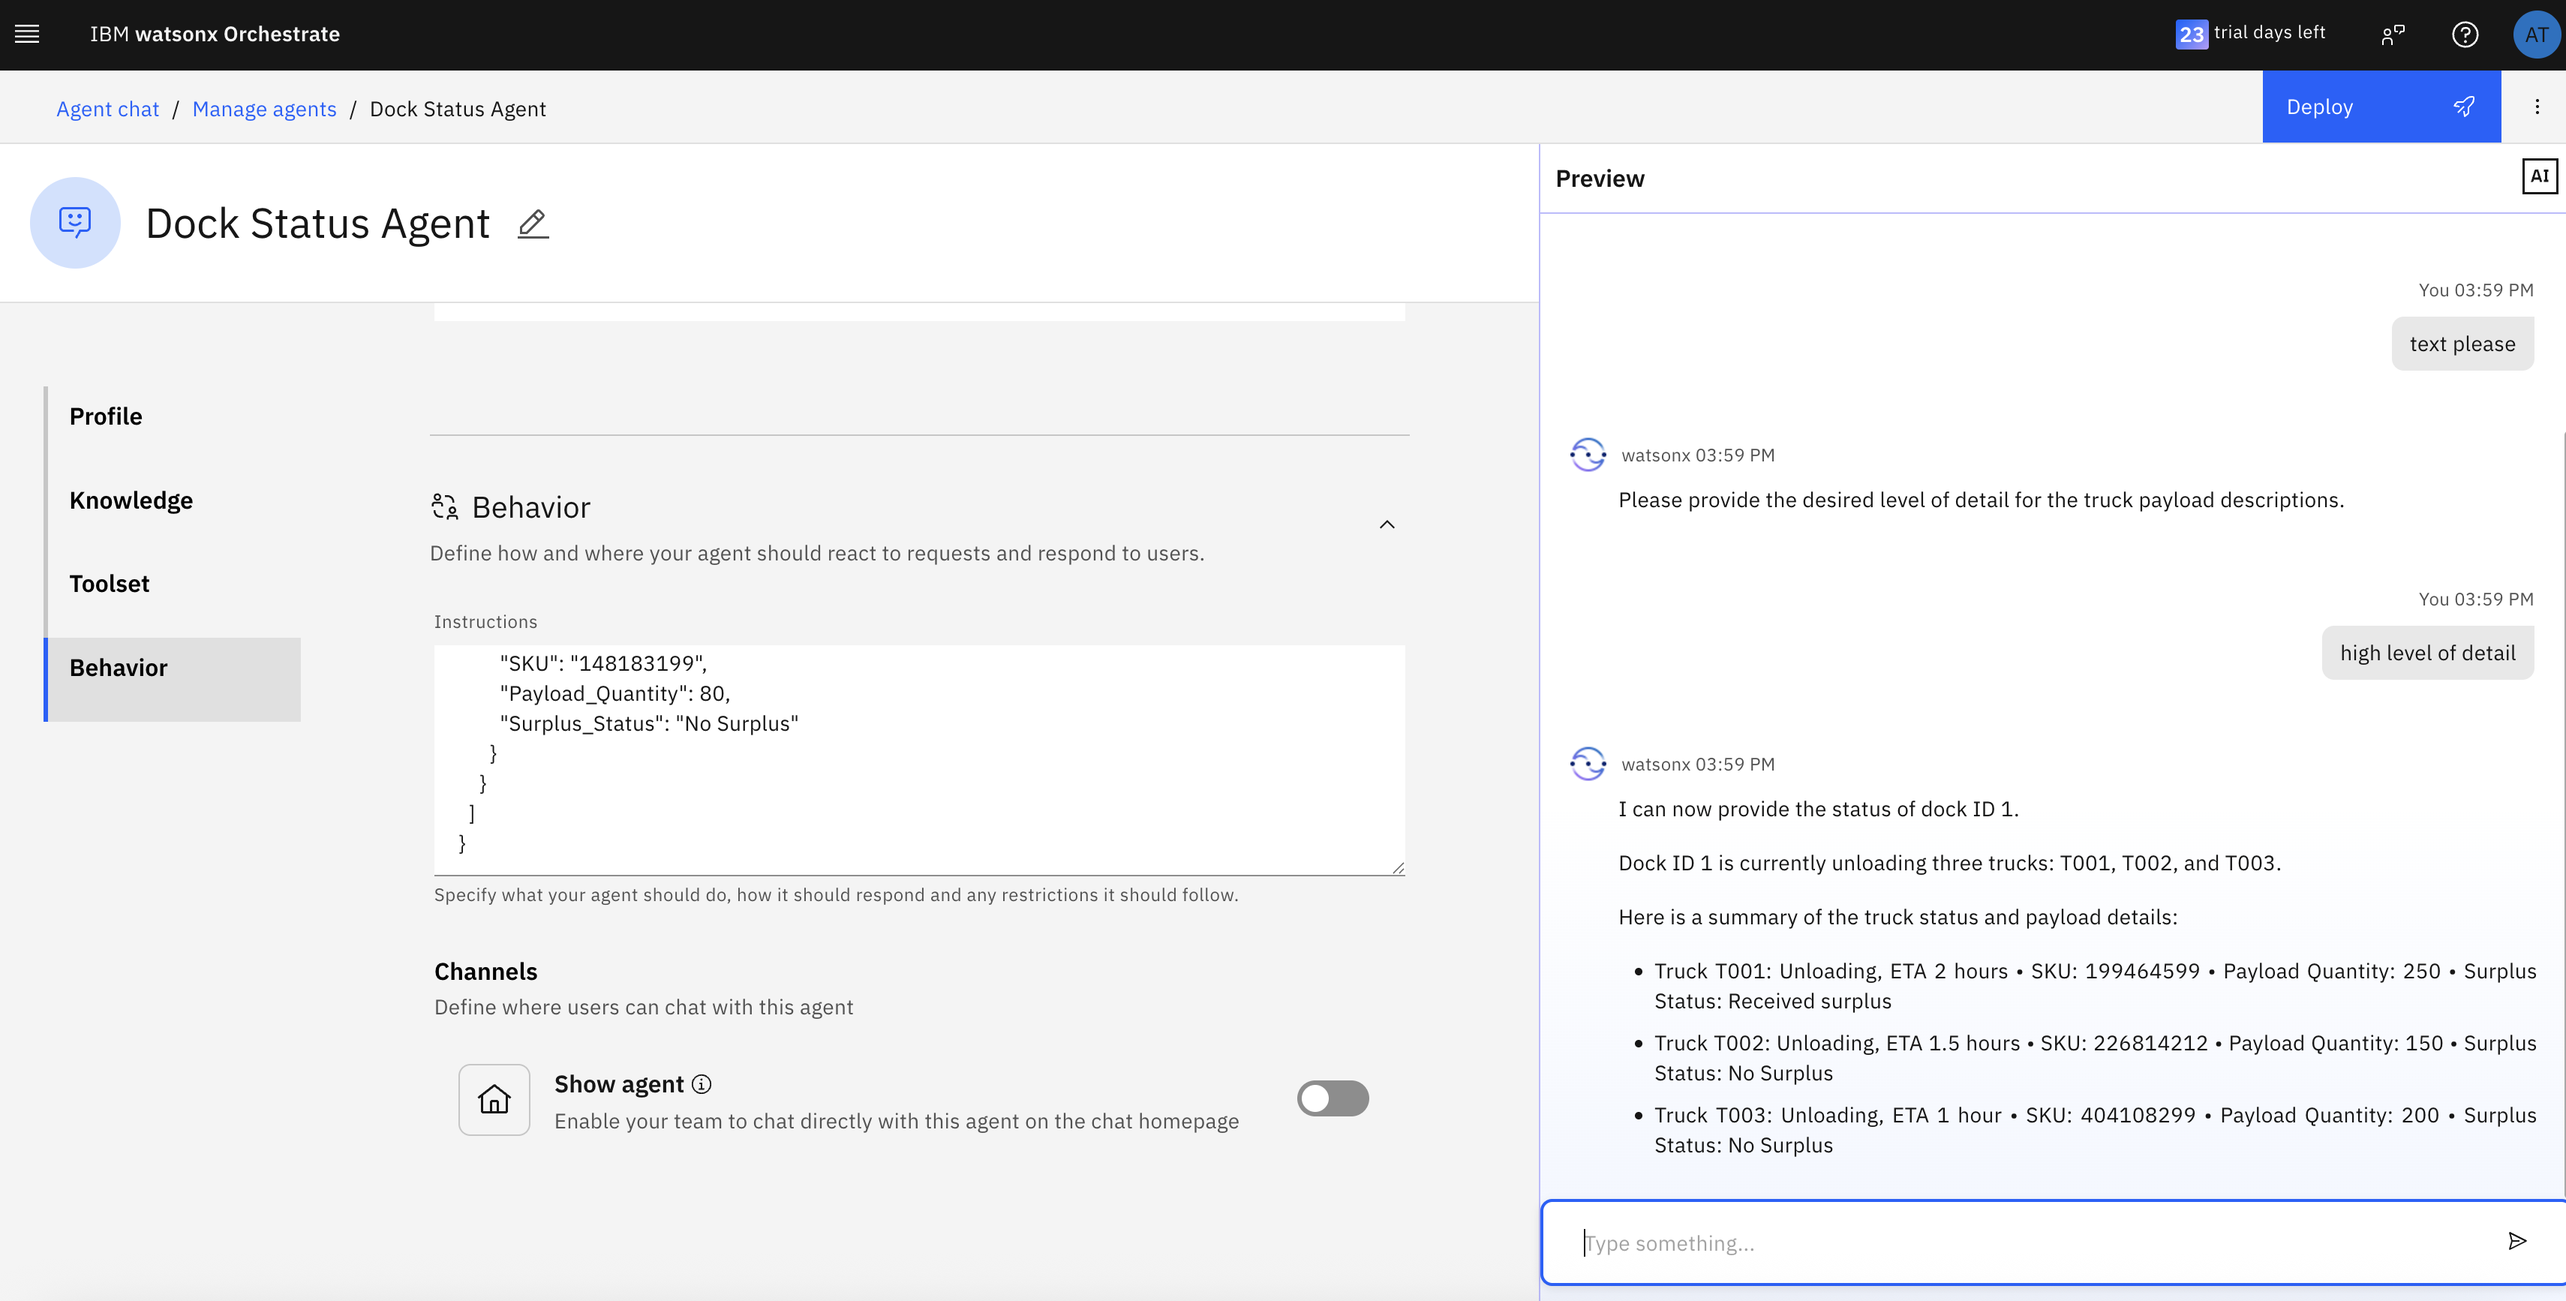
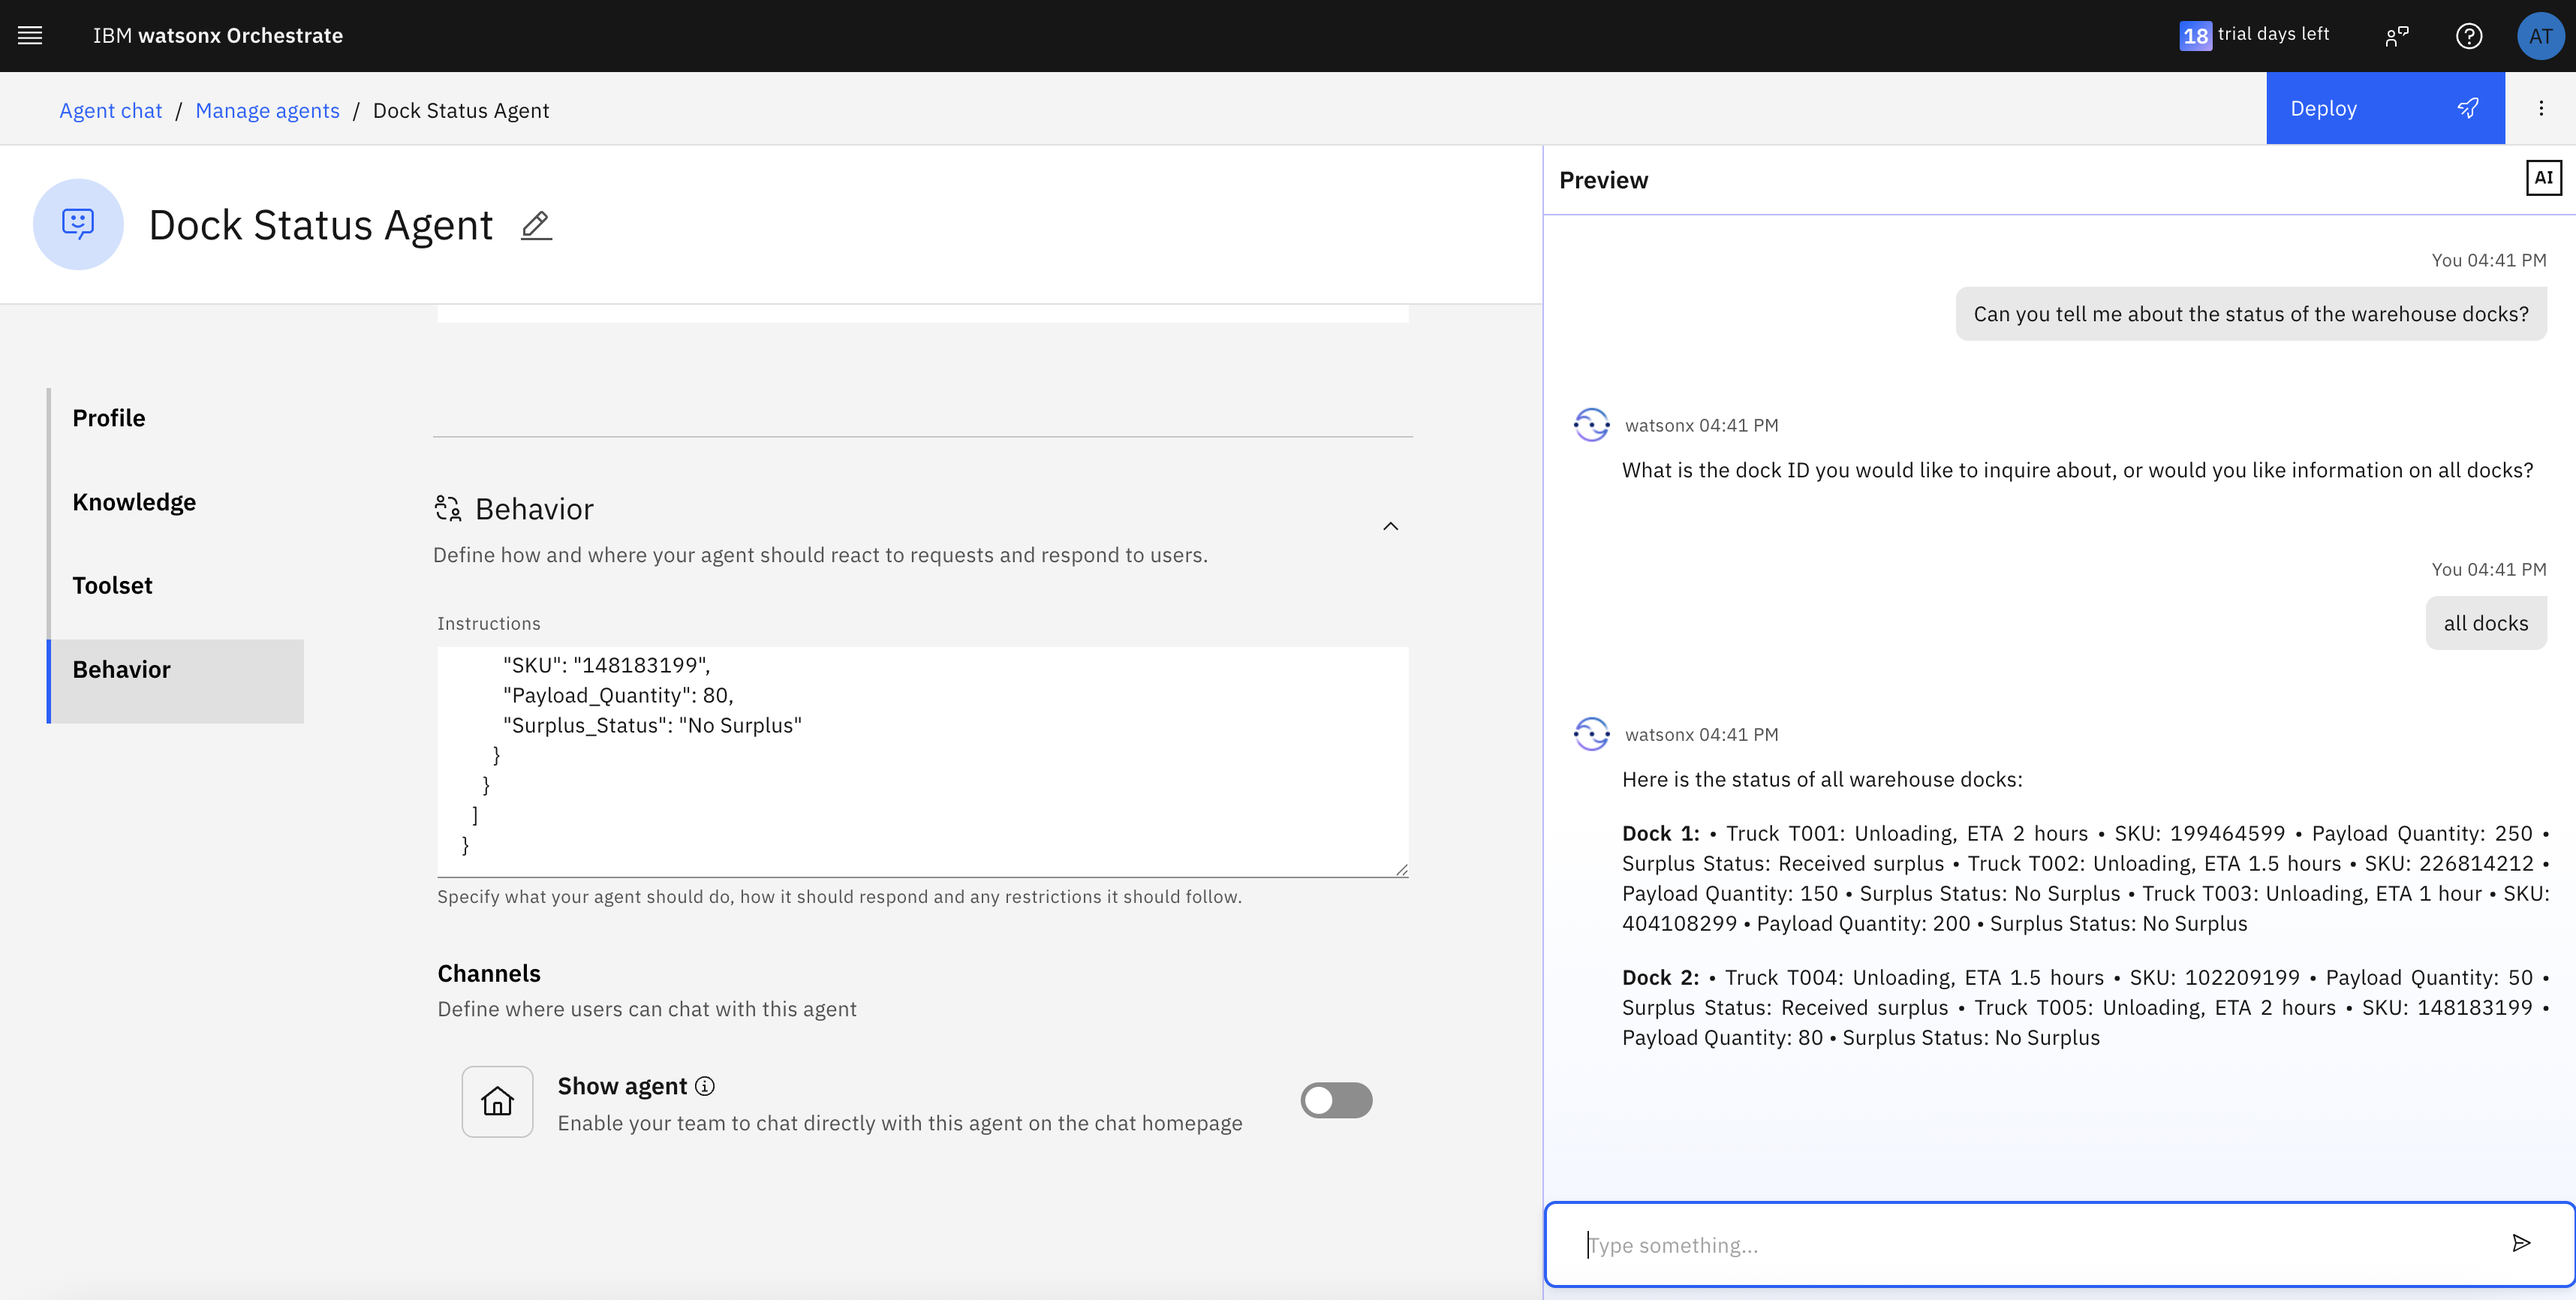
updated instructions for agents in Intelligent Assistant

diff --git a/usecases/intelligent-assistant/Intelligent AI Assistant.md b/usecases/intelligent-assistant/Intelligent AI Assistant.md
@@ -66,8 +66,11 @@ We are now ready to build the first agent. In the watsonx Orchestrate console, c
 
 ### The Dock Status Agent
 In the following screen, you can select if you want to create the new agent from scratch or from a template, and give it a name and a description.
-To create the solution, you will need to create a number of agents and we will go through them one by one, starting with the `Dock Status` agent. Let's start with giving it a name ("Dock Status Agent") and a description ("You are an agent who specializes in answering inquiries about warehouse dock status. 
-You should be compassionate to the user."). Note that in the world of AI Agents, these descriptions are not merely used as documentation, they are also used in making decisions about selecting the right agent for the job, so what you enter into this field is important.
+To create the solution, you will need to create a number of agents and we will go through them one by one, starting with the `Dock Status` agent. Let's start by giving it a name  and a description:
+- Name: Dock Status Agent
+- Description: The Dock Status Agent specializes in answering inquiries about current warehouse dock status. It has access to detailed and up-to-date data about which trucks are loading and unloading at docks, and information about the products they carry, and return detailed textual information about this data to the user.
+
+Note that in the world of AI Agents, these descriptions are not merely used as documentation, they are also used in making decisions about selecting the right agent for the job, so what you enter into this field is important.
 
 After you have entered the required information, click on `Create`.
 
@@ -80,13 +83,21 @@ On the following screen, we can enter more information about the new agent we ar
   - `Agents` are other agents, either within watsonx Orchestrate or running externally, e.g., in watsonx.ai that this agent can delegate the request, or part of a request, to.
 
 In a real production deployment, the Dock Status agent would sit in front of an existing enterprise backend system that can provide up-to-date data about trucks currently sitting at warehouse docks, and keep track of products and their quantity that are being unloaded.
-However, in this hands-on exercise, we will simulate that backend by simply hardcoding the data into the `Behavior` field of the agent. The content of this field drive the prompts that are sent to the underlying LLM, and adding the hardcoded data euqates to providing examples in the prompt. So, for the purpose of simulating data stemming from an enterprise system, we can use this workaround.
+However, in this hands-on exercise, we will simulate that backend by simply hardcoding the data into the `Behavior` field of the agent. The content of this field drive the prompts that are sent to the underlying LLM, and adding the hardcoded data euqates to providing examples in the prompt. So, for the purpose of simulating data stemming from an enterprise system, we can use this workaround. Note how the instructions provide detailed information about boththe persona and the context this agent operates with.
 
 On the agent definition page, scroll all the way down to `Behavior` and copy the following text into the text field:
 
 ```
-When asked about warehouse dock status, provide a concise summary of the current warehouse dock operations in a textual format. You need to include the truck payload descriptions as a concise bullet-point list. 
-Below is JSON-formatted data that you use to create your answer.
+Persona:
+- Your purpose is to provide information about warehouse dock status. I will ask about the status at the docks, or one specific dock identified by dock ID, and you will answer in a detailed textual format.
+
+Context:
+- Use the Dock status data below to create answers. The data below is formatted in JSON, but you will return the information as text in a bulleted list.
+- If no dock ID is specified, return data for all the docks.
+- the data is current, no timestamp is required or supported.
+- Provide as much detail as you can.
+
+Dock status data:
 {
   "dock_id": 1,
   "trucks": [
@@ -149,11 +160,12 @@ Below is JSON-formatted data that you use to create your answer.
 }
 ```
 
+
+Finally, make sure you uncheck the `Show agent` checkbox, as shown in the picture below. This switch controls whether the agent is available in the main chat window. We only want to expose the top level agent (which we haven't created yet) there. 
+
 ![alt text](images/image6.png)
 
-Finally, make sure you uncheck the `Show agent` checkbox, as shown in the picture above. This switch controls whether the agent is available in the main chat window. We only want to expose the top level agent (which we haven't created yet) there. 
-
-Let's now test the new agent. In the Preview window, enter a question for the agent, for example "Tell me about the status of the warehouse docks." Note how the agent is using the provided data to formulate its answer.
+Let's now test the new agent. In the Preview window, enter a question for the agent, for example "Can you tell me about the status of the warehouse docks?" Note how the agent is using the provided data to formulate its answer.
 
 ![alt text](images/image7.png)
 
@@ -179,8 +191,7 @@ In the Manage agents view, click on the `Create agent` button.
 
 Now leave the `Create from scratch` option selected, enter "Surplus Agent" as the name and enter the following into the Description field:
 ```
-You are an agent who specializes in giving recommendations for handling of surplus data. 
-You should be compassionate to the user.
+The Surplus Agent provides recommendations about the handling of surplus data. It has access to data including the allocation strategy, product SKU and total cost for the surplus on each truck, and it returns information about the recommended handling of surplus.
 ```
 ![alt text](images/image11.png)
 
@@ -188,7 +199,15 @@ Then click on `Create`.
 
 In the following view, scroll all the way down to the `Behavior` field, and enter the following:
 ```
-When asked about surplus handling, use the surplus data below, sorted by truck ID to reply with a report on  optimal allocation of surplus units.  When asked how to handle surplus, provide a distribution strategy based on allocations unit for each method along with truck id, Product SKU, total cost, surplus unit.
+- Persona:
+Your purpose is to provide information about surplus. I will ask about the recommended handling of surplus on a specific truck, and you will answer in a detailed format with the allocation strategy based on the given data, along with truck id, Product SKU, total cost, surplus unit.
+
+- Context:
+Use the Surplus data below to create answers. The data below is formatted in JSON, but you will return the information as text in a bulleted list.
+- If no allocation strategy is specified, return data according to the allocations given in the data below.
+- If no product SKU is provided, return data for all of the products within a given truck ID.
+- Provide as much detail as you can.
+
 Surplus data:
 {
   "truck_id": "T004",
